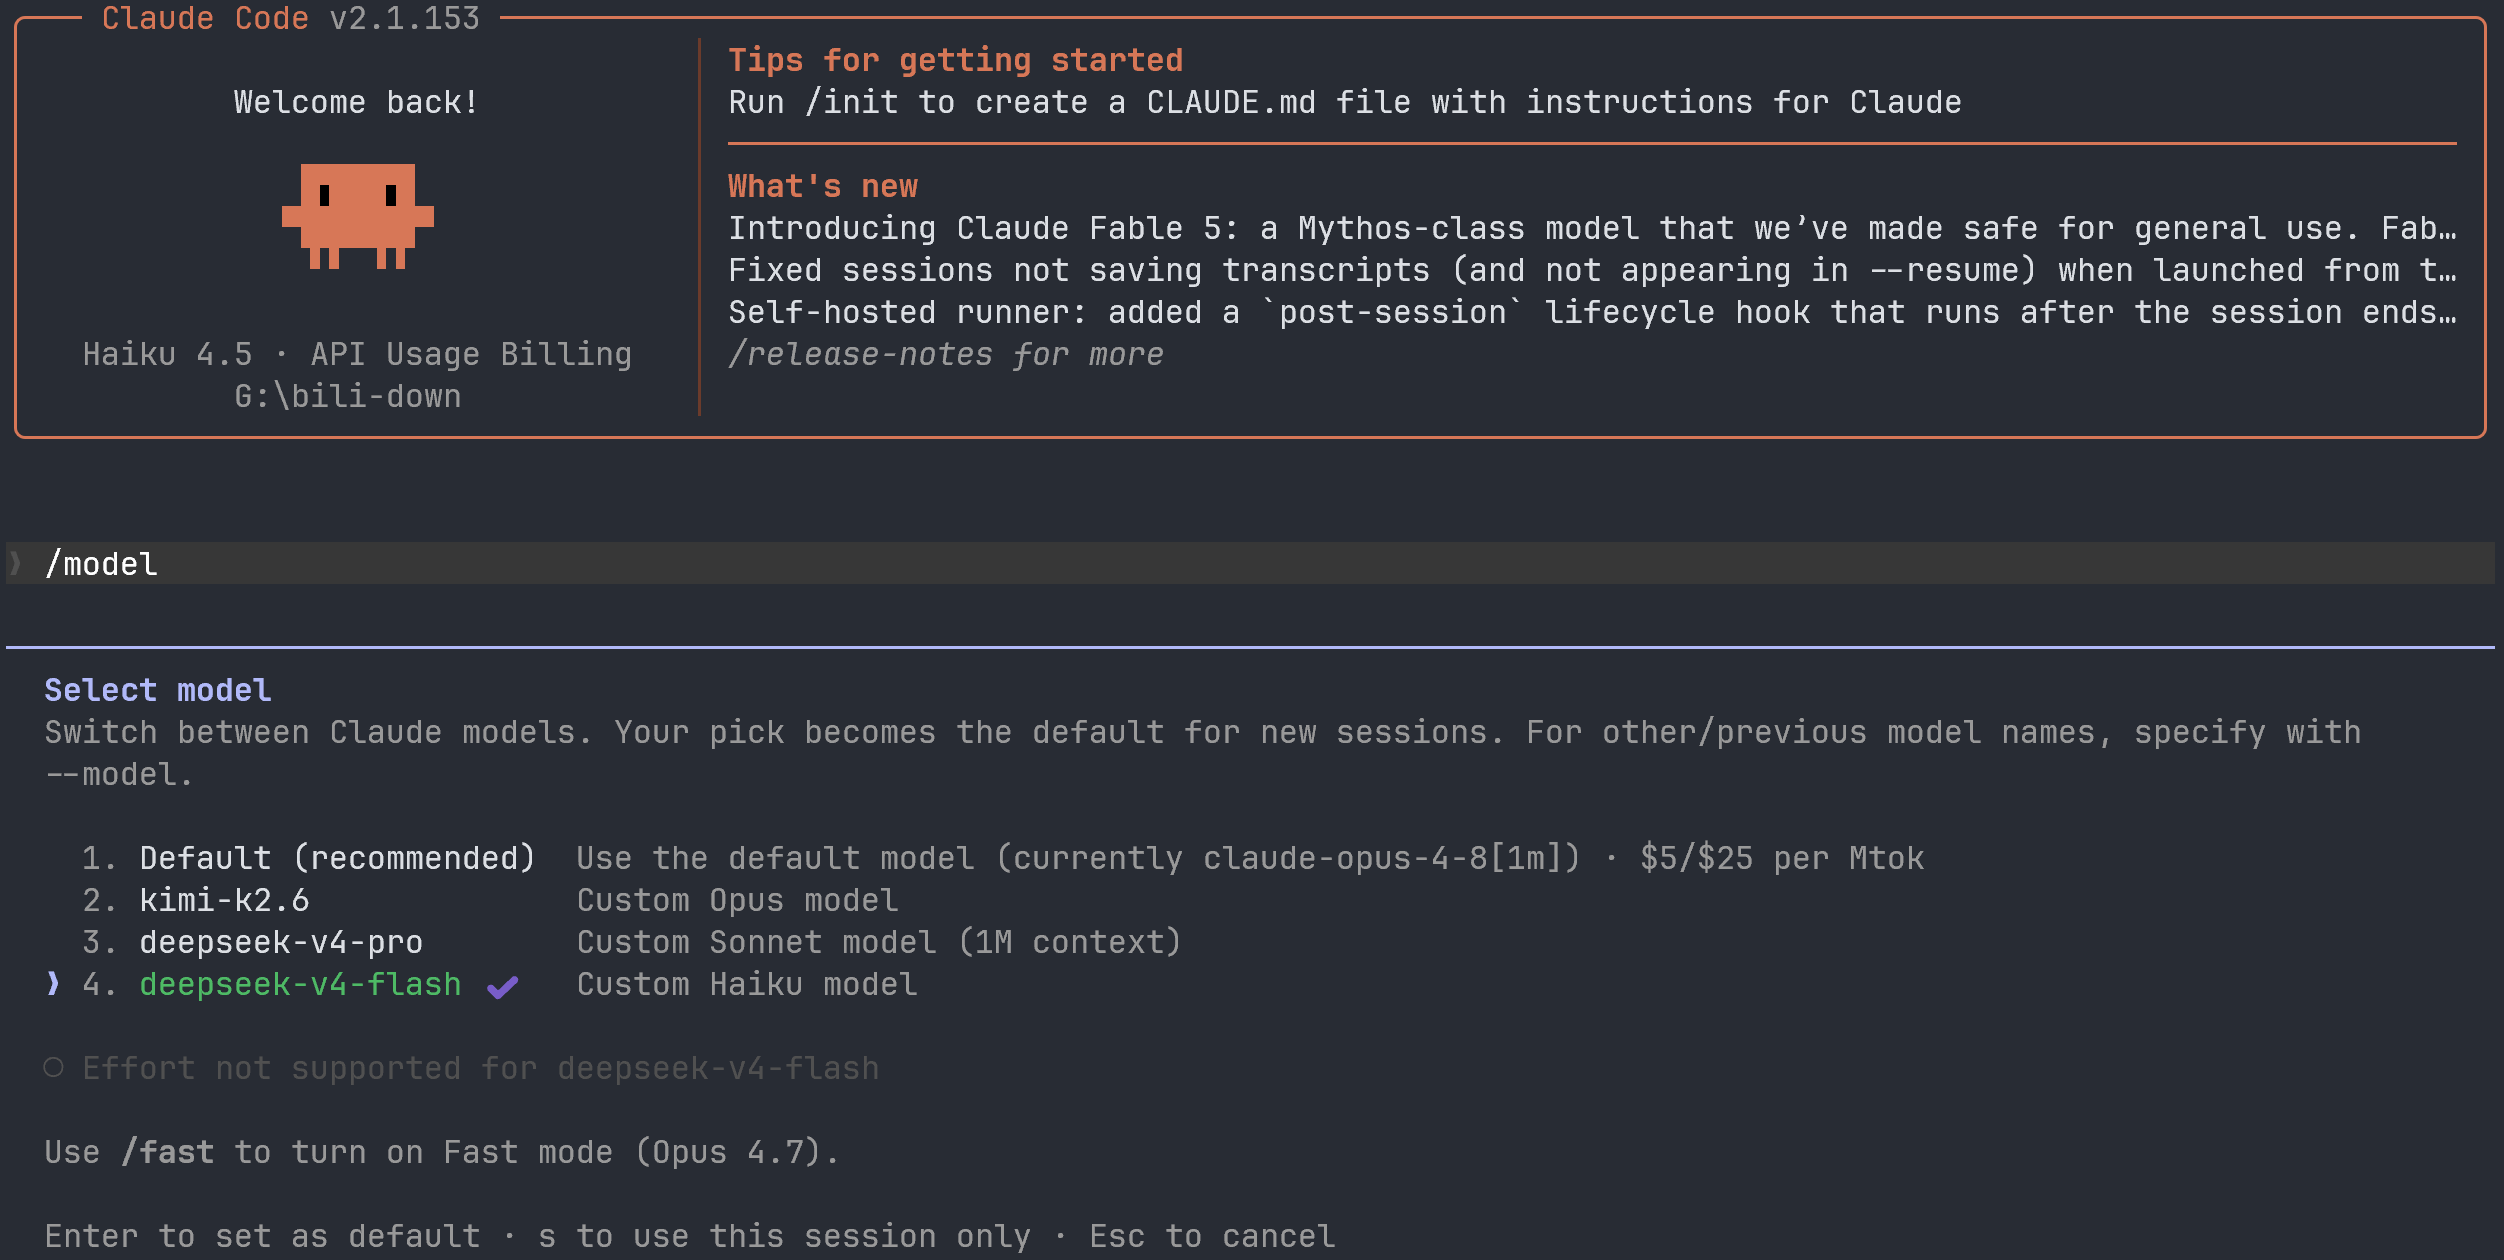
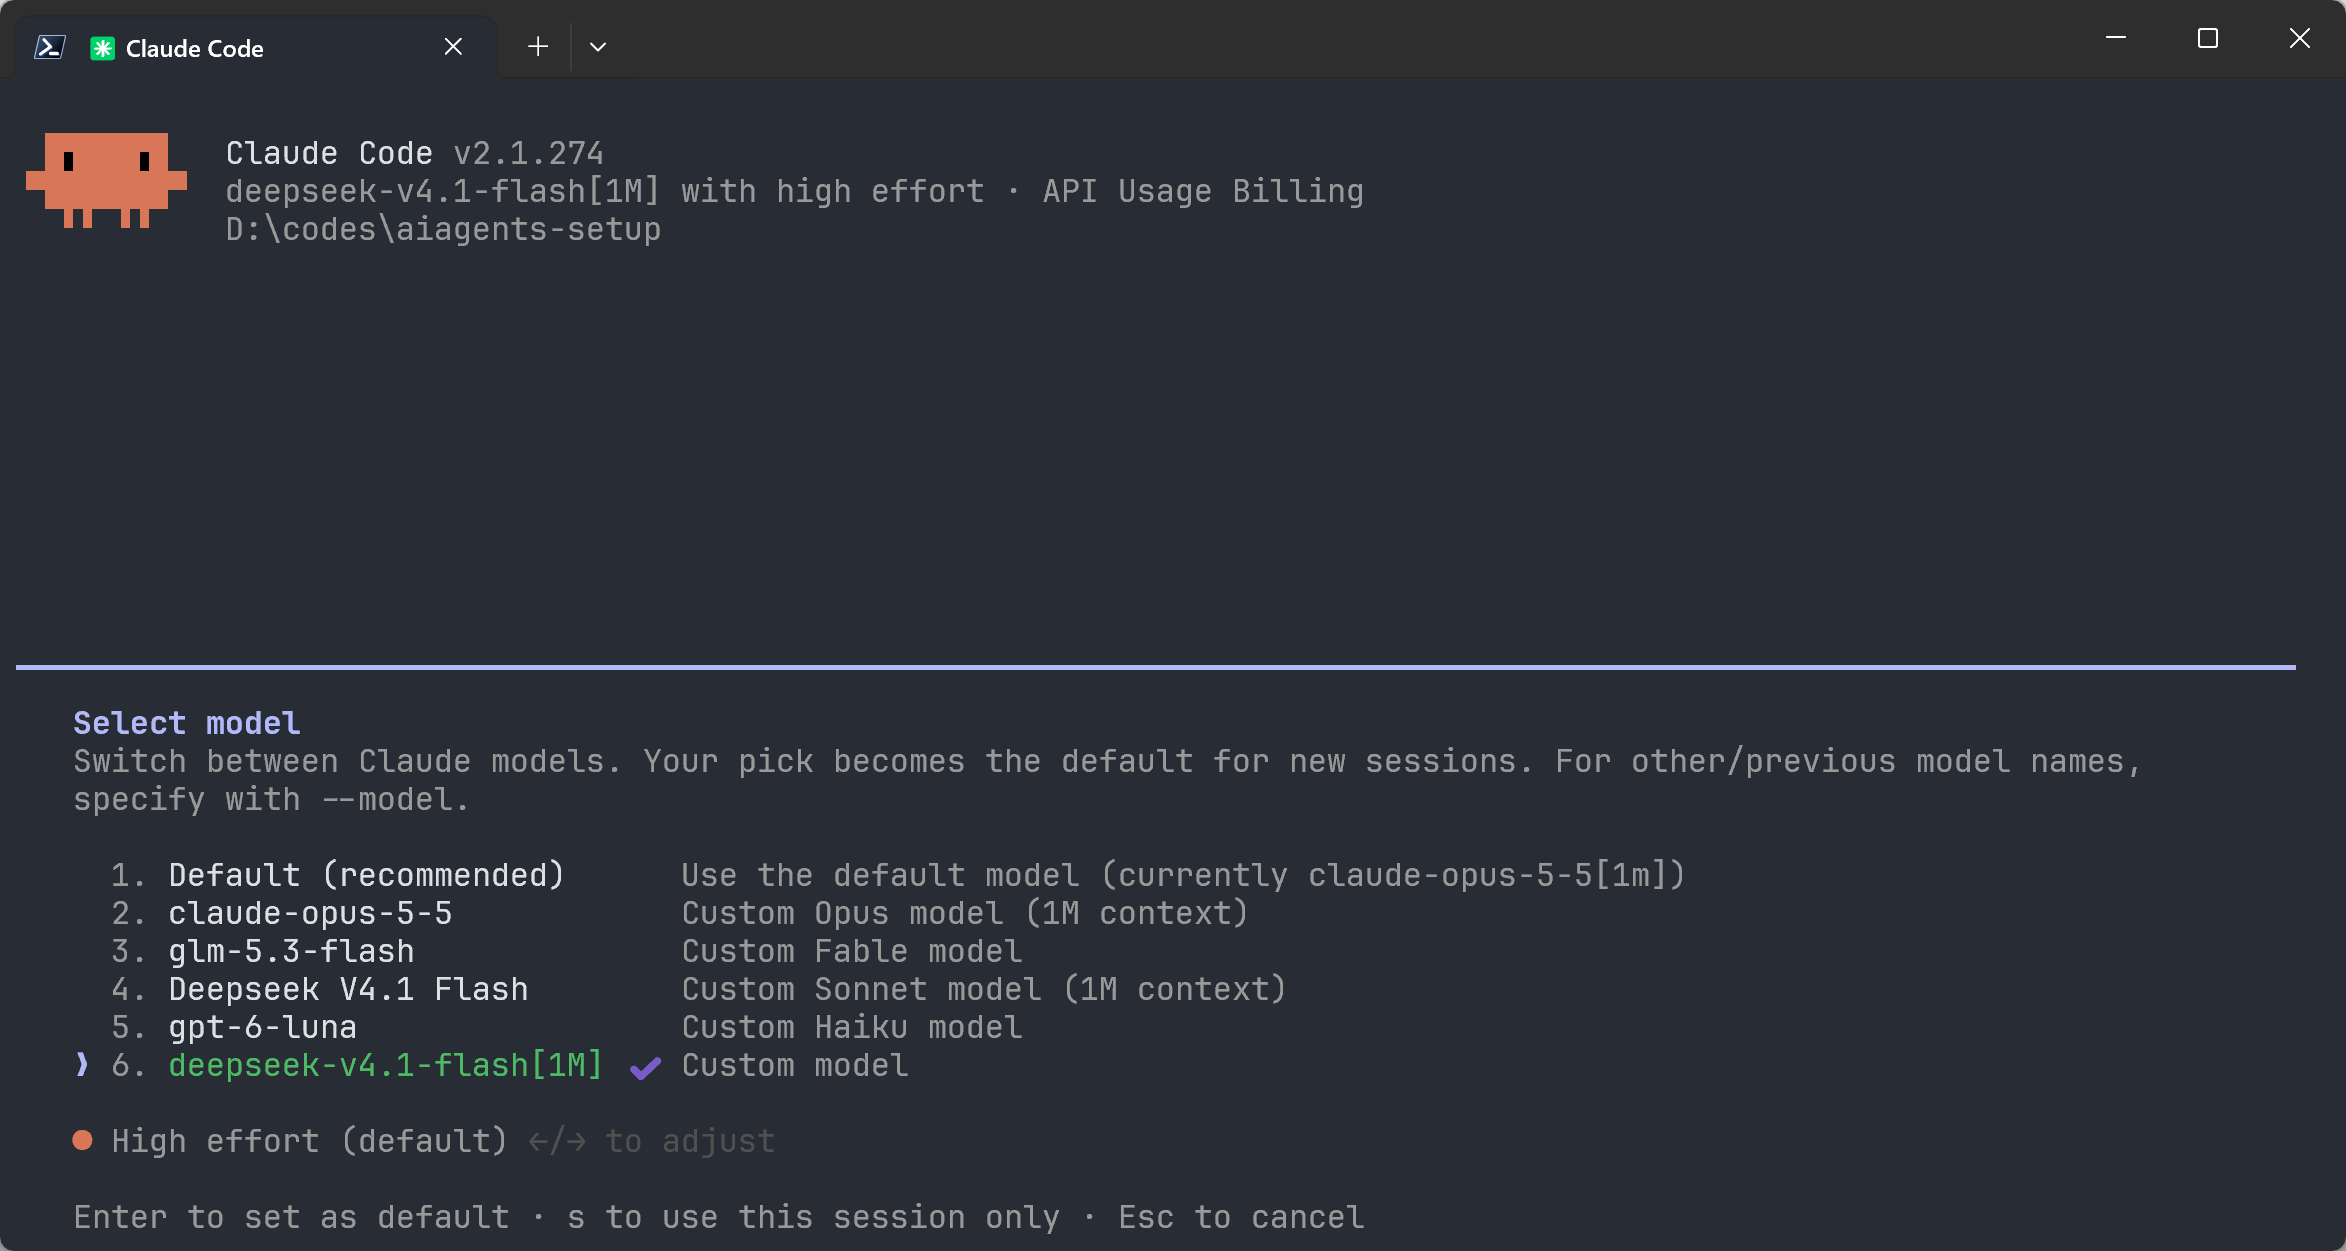
docs: 对齐 Claude Code 档位映射与 Codex 审批政策
- 按新 /model 截图更新映射：Opus -> claude-opus-5-5[1M]，Fable -> glm-5.3-flash
  （原为 Opus=glm-5.3-flash、Fable=qwen3.8-max）
- 同步 4 处配置片段：05-claude-code.md 3.3/4.1、08-cc-switch.md 4.2、10-appendix 1.2
  （3.3 远程服务器片段此前漏了 FABLE 两行）
- 05-claude-code.md 第 5 节验证说明与配图 alt 改为按新图实际内容撰写
- 03-codex.md 4.1：删掉已移除的 approval_policy=untrusted，
  改为官方口径（交互式 on-request / 非交互式 never），并标注硬失败后果

diff --git a/05-claude-code.md b/05-claude-code.md
@@ -71,8 +71,10 @@ cat > ~/.claude/settings.json << 'EOF'
   "env": {
     "ANTHROPIC_BASE_URL": "https://newapi.ttxs.site",
     "ANTHROPIC_MODEL": "deepseek-v4.1-flash[1M]",
-    "ANTHROPIC_DEFAULT_OPUS_MODEL": "glm-5.3-flash[1M]",
-    "ANTHROPIC_DEFAULT_OPUS_MODEL_NAME": "glm-5.3-flash",
+    "ANTHROPIC_DEFAULT_FABLE_MODEL": "glm-5.3-flash",
+    "ANTHROPIC_DEFAULT_FABLE_MODEL_NAME": "glm-5.3-flash",
+    "ANTHROPIC_DEFAULT_OPUS_MODEL": "claude-opus-5-5[1M]",
+    "ANTHROPIC_DEFAULT_OPUS_MODEL_NAME": "claude-opus-5-5",
     "ANTHROPIC_DEFAULT_SONNET_MODEL": "deepseek-v4.1-flash[1M]",
     "ANTHROPIC_DEFAULT_SONNET_MODEL_NAME": "Deepseek V4.1 Flash",
     "ANTHROPIC_DEFAULT_HAIKU_MODEL": "gpt-6-luna",
@@ -117,10 +119,10 @@ New-Item -ItemType Directory -Force "$env:USERPROFILE\.claude" | Out-Null
   "env": {
     "ANTHROPIC_BASE_URL": "https://newapi.ttxs.site",
     "ANTHROPIC_MODEL": "deepseek-v4.1-flash[1M]",
-    "ANTHROPIC_DEFAULT_FABLE_MODEL": "qwen3.8-max[1M]",
-    "ANTHROPIC_DEFAULT_FABLE_MODEL_NAME": "qwen3.8-max",
-    "ANTHROPIC_DEFAULT_OPUS_MODEL": "glm-5.3-flash[1M]",
-    "ANTHROPIC_DEFAULT_OPUS_MODEL_NAME": "glm-5.3-flash",
+    "ANTHROPIC_DEFAULT_FABLE_MODEL": "glm-5.3-flash",
+    "ANTHROPIC_DEFAULT_FABLE_MODEL_NAME": "glm-5.3-flash",
+    "ANTHROPIC_DEFAULT_OPUS_MODEL": "claude-opus-5-5[1M]",
+    "ANTHROPIC_DEFAULT_OPUS_MODEL_NAME": "claude-opus-5-5",
     "ANTHROPIC_DEFAULT_SONNET_MODEL": "deepseek-v4.1-flash[1M]",
     "ANTHROPIC_DEFAULT_SONNET_MODEL_NAME": "Deepseek V4.1 Flash",
     "ANTHROPIC_DEFAULT_HAIKU_MODEL": "gpt-6-luna",
@@ -191,9 +193,9 @@ cd D:\codes\some-project
 claude
 ```
 
-输入 `/model`，应该能看到 sonnet / opus / haiku（以及 fable）档位，并且**模型名显示为 `Deepseek V4.1 Flash`、`glm-5.3-flash`、`gpt-6-luna` 这类我们映射的名字**——说明配置生效。
+输入 `/model`，应该能看到 sonnet / opus / fable / haiku 档位，并且**模型名显示为 `Deepseek V4.1 Flash`、`glm-5.3-flash`、`claude-opus-5-5`、`gpt-6-luna` 这类我们映射的名字**——说明配置生效。
 
-![Claude Code 里 `/model` 的选择列表：Default 为 claude-opus-4-8[1M]，另有 kimi-k2.6、deepseek-v4-pro、deepseek-v4-flash（当前选中）三档自定义模型](images/claude-code-model-list.png)
+![Claude Code 里 `/model` 的选择列表：顶部显示当前为 deepseek-v4.1-flash[1M] with high effort；列表里 Default 是 claude-opus-5-5[1m]，另有 claude-opus-5-5、glm-5.3-flash、Deepseek V4.1 Flash、gpt-6-luna 四档映射模型，当前选中 deepseek-v4.1-flash[1M]](images/claude-code-model-list.png)
 
 ---
 

diff --git a/03-codex.md b/03-codex.md
@@ -125,12 +125,16 @@ network_access = true
 | `model` | 用哪个模型 | `gpt-6-luna`、`gpt-5.6-sol`；清单见 [统一接入](02-unified-access.md) 第 4 节 |
 | `model_provider = "newapi"` | 用下面定义的 `[model_providers.newapi]` | 不要删 |
 | `model_reasoning_effort` | 思考强度 | `low`（快）/ `medium`（默认）/ `high`、`xhigh`、`max`（慢而强） |
-| `approval_policy = "on-request"` | 模型需要额外权限时问你 | `never`=从不问、`untrusted`=更严格 |
+| `approval_policy = "on-request"` | 模型需要额外权限时问你 | `never`=从不问（**非交互式跑用这个**） |
 | `sandbox_mode = "workspace-write"` | 只能改当前工作目录 | 见第 7 节"进阶：权限" |
 | `env_key = "NEWAPI_KEY"` | **密钥来源** | 只写变量名，不要加 `$` |
 | `requires_openai_auth = false` | 不要求登录 OpenAI 账号 | 不要删，否则会一直要求你登录 |
 
 > 用 `env_key = "NEWAPI_KEY"` 这种写法时，**不需要** `codex login`，也不要把 Key 硬写进配置文件。
+
+> ⚠ **千万别写 `approval_policy = "untrusted"`**：官方从 **0.149.0** 起移除了这个值，而且是硬失败——配置里留着它 Codex **直接拒绝启动**：
+> `Error loading configuration: approval_policy = "untrusted" is no longer supported; remove this setting`
+> `on-failure` 也一并废弃了。**记住这两句：交互式用 `on-request`，非交互式（脚本、CI）用 `never`。**
 
 ## 4.2 让它说中文：`%USERPROFILE%\.codex\AGENTS.md`
 

diff --git a/10-appendix-full-config.md b/10-appendix-full-config.md
@@ -36,10 +36,10 @@
 "env": {
   "ANTHROPIC_BASE_URL": "https://newapi.ttxs.site",
   "ANTHROPIC_MODEL": "deepseek-v4.1-flash[1M]",
-  "ANTHROPIC_DEFAULT_FABLE_MODEL": "qwen3.8-max[1M]",
-  "ANTHROPIC_DEFAULT_FABLE_MODEL_NAME": "qwen3.8-max",
-  "ANTHROPIC_DEFAULT_OPUS_MODEL": "glm-5.3-flash[1M]",
-  "ANTHROPIC_DEFAULT_OPUS_MODEL_NAME": "glm-5.3-flash",
+  "ANTHROPIC_DEFAULT_FABLE_MODEL": "glm-5.3-flash",
+  "ANTHROPIC_DEFAULT_FABLE_MODEL_NAME": "glm-5.3-flash",
+  "ANTHROPIC_DEFAULT_OPUS_MODEL": "claude-opus-5-5[1M]",
+  "ANTHROPIC_DEFAULT_OPUS_MODEL_NAME": "claude-opus-5-5",
   "ANTHROPIC_DEFAULT_SONNET_MODEL": "deepseek-v4.1-flash[1M]",
   "ANTHROPIC_DEFAULT_SONNET_MODEL_NAME": "Deepseek V4.1 Flash",
   "ANTHROPIC_DEFAULT_HAIKU_MODEL": "gpt-6-luna",

diff --git a/08-cc-switch.md b/08-cc-switch.md
@@ -69,7 +69,8 @@ CC Switch 的工作原理就是替你写 `~/.claude/settings.json`、`~/.codex/c
 
 ```json
 "ANTHROPIC_MODEL": "deepseek-v4.1-flash[1M]",
-"ANTHROPIC_DEFAULT_OPUS_MODEL": "glm-5.3-flash[1M]",
+"ANTHROPIC_DEFAULT_FABLE_MODEL": "glm-5.3-flash",
+"ANTHROPIC_DEFAULT_OPUS_MODEL": "claude-opus-5-5[1M]",
 "ANTHROPIC_DEFAULT_SONNET_MODEL": "deepseek-v4.1-flash[1M]",
 "ANTHROPIC_DEFAULT_HAIKU_MODEL": "gpt-6-luna"
 ```
